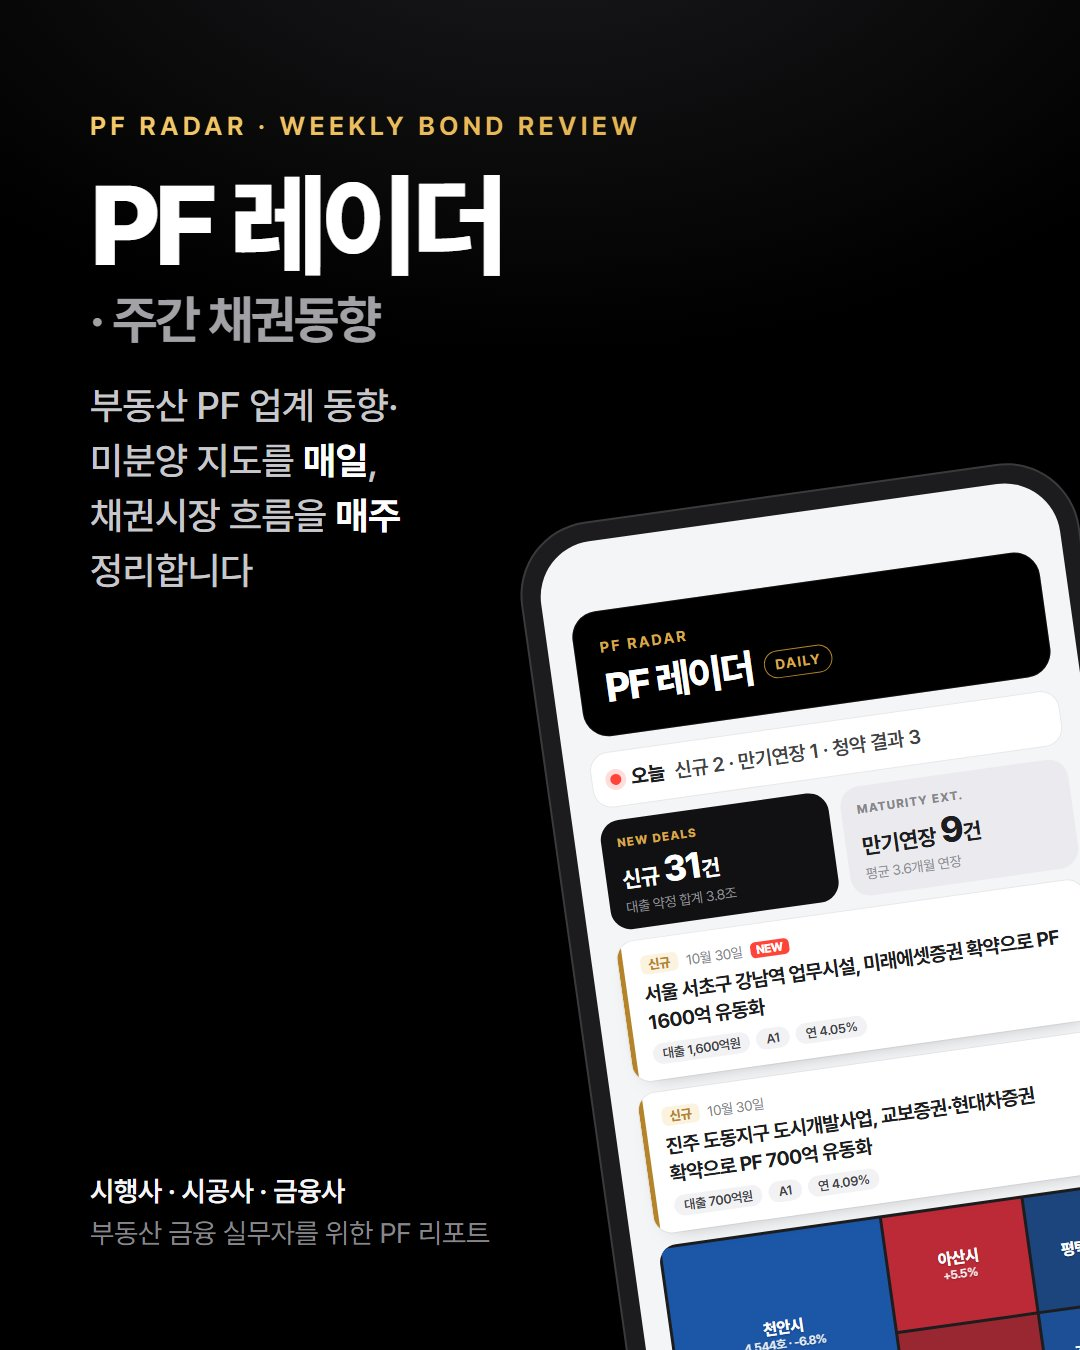
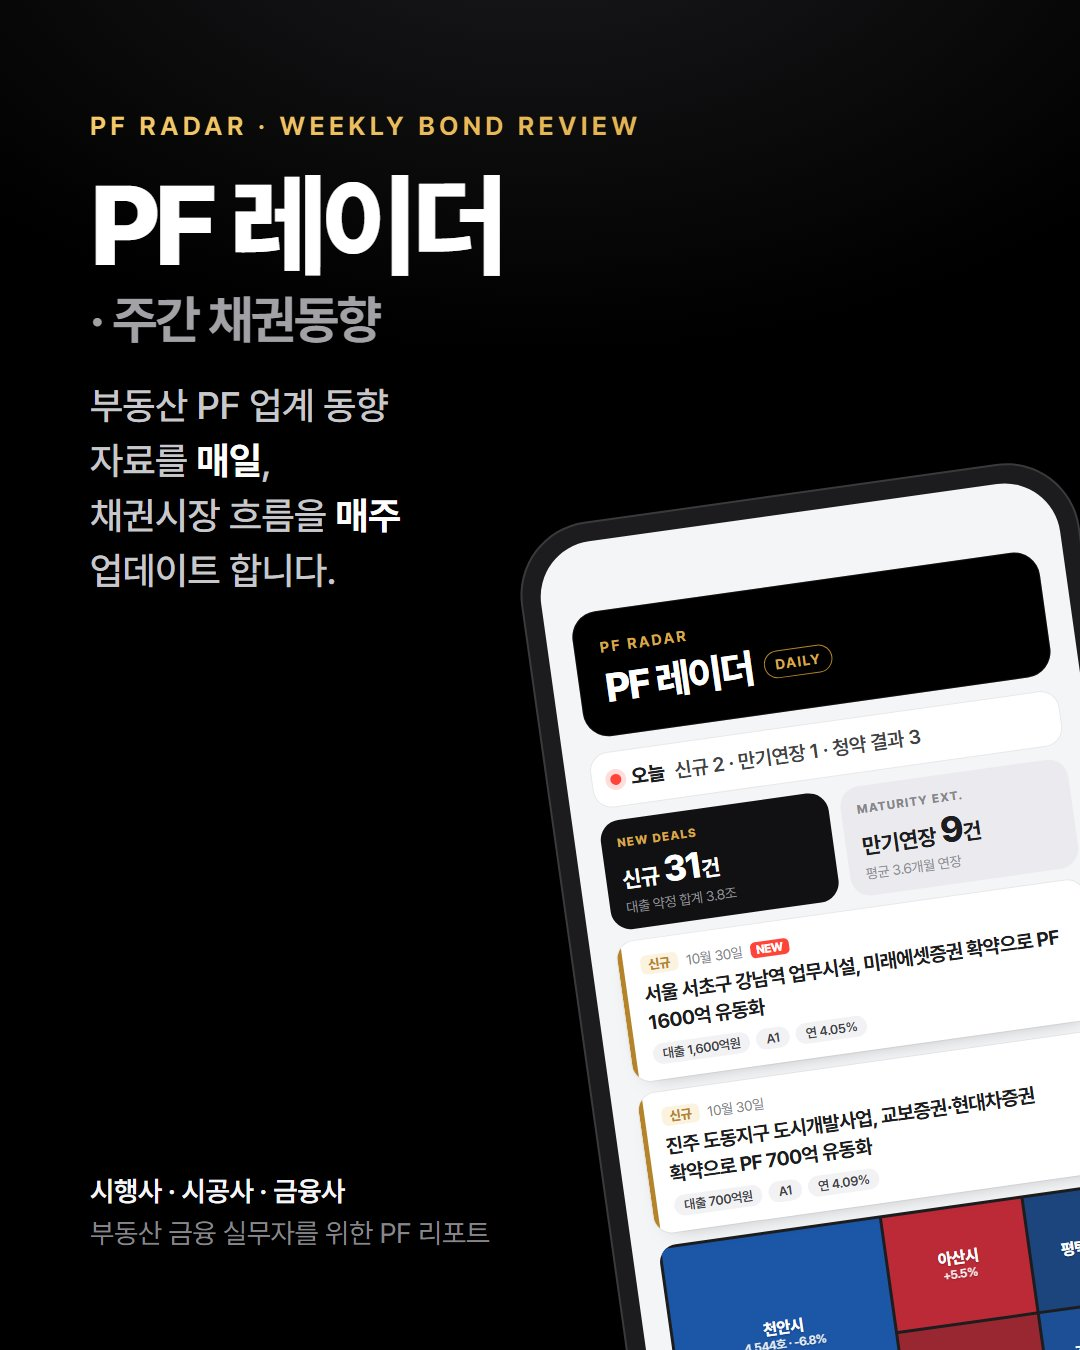
배포 2026-11-04 14:13

Changed region(s): [[0.0917, 0.3111, 0.3361, 0.3733], [0.0917, 0.4044, 0.3056, 0.4356]]

diff --git a/index.html b/index.html
@@ -10,13 +10,13 @@
 <meta name="apple-mobile-web-app-title" content="PF 레이더">
 <title>PF 레이더 · 주간 채권동향</title>
 <!-- 카톡·메신저에 링크를 붙였을 때 뜨는 미리보기. 작성자 정보는 넣지 않는다. -->
-<meta name="description" content="매일 업데이트하는 부동산 PF 업계 동향·미분양 지도·시공사 신용과 매주 채권시장 흐름을 정리합니다. 시행사·시공사·금융사 실무자를 위한 리포트">
+<meta name="description" content="부동산 PF 업계 동향 자료를 매일, 채권시장 흐름을 매주 업데이트 합니다. 시행사·시공사·금융사 실무자를 위한 리포트">
 <meta property="og:type" content="website">
 <meta property="og:site_name" content="PF 레이더 · 주간 채권동향">
 <meta property="og:title" content="PF 레이더 · 주간 채권동향">
-<meta property="og:description" content="매일 업데이트하는 부동산 PF 업계 동향·미분양 지도·시공사 신용과 매주 채권시장 흐름을 정리합니다. 시행사·시공사·금융사 실무자를 위한 리포트">
+<meta property="og:description" content="부동산 PF 업계 동향 자료를 매일, 채권시장 흐름을 매주 업데이트 합니다. 시행사·시공사·금융사 실무자를 위한 리포트">
 <meta property="og:url" content="https://miraekms1988-beep.github.io/">
-<meta property="og:image" content="https://miraekms1988-beep.github.io/promo/og.jpg?v=20261104b">
+<meta property="og:image" content="https://miraekms1988-beep.github.io/promo/og.jpg?v=20261104c">
 <meta property="og:image:width" content="1200">
 <meta property="og:image:height" content="630">
 <link rel="manifest" href="manifest.webmanifest">
@@ -46,8 +46,8 @@
        이미지는 .tmp/promo/render.ps1 로 다시 굽는다. -->
   <section class="promo" id="promo" aria-label="PF 레이더 · 주간 채권동향 미리보기">
     <div class="promo-track" id="promo-track">
-      <a href="promo/card1.jpg?v=20261104" target="_blank" rel="noopener"><img src="promo/card1.jpg?v=20261104" width="1080" height="1350" loading="lazy" decoding="async"
-           alt="PF 레이더 · 주간 채권동향 - 부동산 PF 업계 동향·미분양 지도를 매일, 채권시장 흐름을 매주 정리합니다"></a>
+      <a href="promo/card1.jpg?v=20261104b" target="_blank" rel="noopener"><img src="promo/card1.jpg?v=20261104b" width="1080" height="1350" loading="lazy" decoding="async"
+           alt="PF 레이더 · 주간 채권동향 - 부동산 PF 업계 동향 자료를 매일, 채권시장 흐름을 매주 업데이트 합니다."></a>
       <a href="promo/card2.jpg?v=20261104" target="_blank" rel="noopener"><img src="promo/card2.jpg?v=20261104" width="1080" height="1350" loading="lazy" decoding="async"
            alt="구독하면 볼 수 있는 것: 매일 부동산 PF 업계 동향, 미분양 지도, 분양 성과와 시공사 신용 온도계, 매주 채권시장 정리와 부동산 제도·규제"></a>
       <a href="promo/card3.jpg?v=20261104" target="_blank" rel="noopener"><img src="promo/card3.jpg?v=20261104" width="1080" height="1350" loading="lazy" decoding="async"

diff --git a/sw.js b/sw.js
@@ -7,7 +7,7 @@
    deploy-pages.ps1 이 올릴 때 뒤에 앱 셸 지문을 붙인다(v37-1a2b3c4d).
    CSS/JS 가 바뀐 배포마다 이 줄이 바뀌어 휴대폰이 새 셸을 받는다.
    여기 숫자는 손댈 필요 없다. */
-const CACHE = 'bond-weekly-v37-cd0ccdfc';
+const CACHE = 'bond-weekly-v37-efd67ed5';
 const SHELL = [
   './',
   './index.html',
